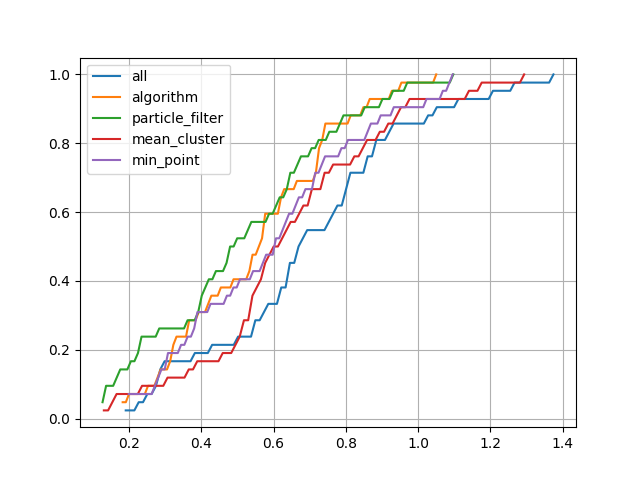
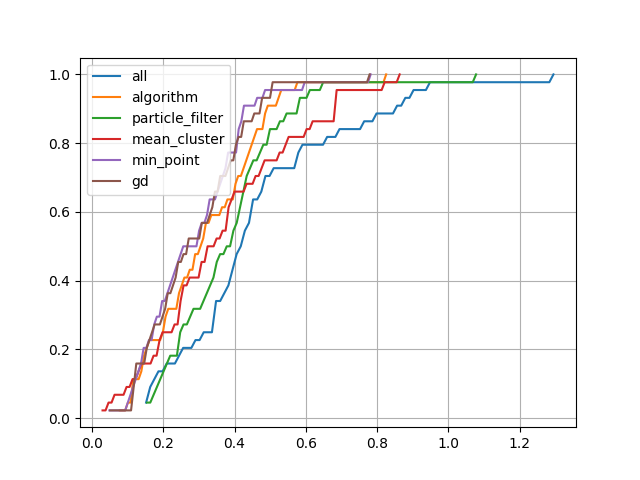
most rencently

diff --git a/report/comparison.py b/report/comparison.py
@@ -13,6 +13,7 @@ from scipy.spatial import distance
 from scipy.stats import cumfreq
 from sklearn.preprocessing import MinMaxScaler
 
+from scipy.optimize import minimize
 cwd = os.getcwd()
 sys.path.insert(0, os.path.join(cwd, "../classes"))
 sys.path.insert(0, os.path.join(cwd, "../commons"))
@@ -90,6 +91,25 @@ class ParticleFilter:
 
         return most_likely_particle
 
+def place_points_in_constraints(points, space_constraints):
+    for point in points:
+        if point['x'] < space_constraints['x_min']:
+            point['x'] = space_constraints['x_min']
+        elif point['x'] > space_constraints['x_max']:
+            point['x'] = space_constraints['x_max']
+
+        if point['y'] < space_constraints['y_min']:
+            point['y'] = space_constraints['y_min']
+        elif point['y'] > space_constraints['y_max']:
+            point['y'] = space_constraints['y_max']
+
+        if point['z'] < space_constraints['z_min']:
+            point['z'] = space_constraints['z_min']
+        elif point['z'] > space_constraints['z_max']:
+            point['z'] = space_constraints['z_max']
+    return points
+
+
 # Step 1: From Distance Measurements To Position
 def distance_to_position(averages_dict, initial_position, gradient_descent, subgroup_list):
     positions = []
@@ -102,6 +122,23 @@ def distance_to_position(averages_dict, initial_position, gradient_descent, subg
 
 # Step 2: From A Constellation Of Points To A Single One
 def constellation_to_single_point(points):
+
+
+    space_constraints = {'x_min': 0, 'x_max': 10, 'y_min': 0, 'y_max': 6, 'z_min': 0, 'z_max': 4}
+    points = place_points_in_constraints(points,space_constraints)
+# Define the cost function
+    def cost_func(x, points):
+        total_distance = 0
+        for point in points:
+            total_distance += np.sqrt((x[0] - point['x'])**2 + (x[1] - point['y'])**2 + (x[2] - point['z'])**2)
+        return total_distance
+
+
+    # Initial guess for the 'x' and 'y' coordinates of the center
+    x0 = np.array([0, 0, 0])
+
+    # Call the minimize function
+    point_gd = minimize(cost_func, x0, args=(points), method='Nelder-Mead')
     # DBSCAN Clustering and Mean Calculation
     # Convert list of dictionaries to 2D array
     points_2d = np.array([[point['x'], point['y'], point['z']] for point in points])
@@ -126,13 +163,12 @@ def constellation_to_single_point(points):
         return likelihood
 
     num_particles = 10000
-    space_constraints = {'x_min': 0, 'x_max': 10, 'y_min': 0, 'y_max': 6, 'z_min': 0, 'z_max': 4}
     motion_model = {'velocity_x': 0, 'velocity_y': 0, 'velocity_z': 0}
     particle_filter = ParticleFilter(num_particles, space_constraints, motion_model, measurement_model)
     particle_filter.update(points)
     particle_filter_point = particle_filter.get_most_likely_particle()
     particle_filter_point = np.array([particle_filter_point['x'],particle_filter_point['y'],particle_filter_point['z']])
-    return [particle_filter_point,mean_point, min_sum_point]
+    return [particle_filter_point,mean_point, min_sum_point,point_gd.x]
 # Step 3: Mean of Single Points
 def mean_of_single_points(points):
     print(points)
@@ -183,6 +219,7 @@ def main():
     diff_particle = []
     diff_all = []
     diff_algorithm = []
+    diff_gd  = []
     # Loop over all experiments
     for exp in range(1, 45):  # Assuming there are 10 experiments
         try:
@@ -228,11 +265,12 @@ def main():
             position_mean = np_array_to_dict(single_points[1])
             position_min = np_array_to_dict(single_points[2])
             position_pf = np_array_to_dict(single_points[0])
+            position_gd = np_array_to_dict(single_points[3]) 
             diff_min.append(Util.calculate_distance(gt,position_min))
             diff_mean.append(Util.calculate_distance(gt,position_mean))
             diff_algorithm.append(Util.calculate_distance(gt,final_position))
             diff_particle.append(Util.calculate_distance(gt,position_pf))
-
+            diff_gd.append(Util.calculate_distance(gt,position_gd))
 
            
             subgroup_list = Util.generate_subgroups(len(averages_dict.keys()), arr=list(averages_dict.keys()))
@@ -248,12 +286,14 @@ def main():
                diff_algorithm,
                diff_particle,
                diff_mean,
-               diff_min], 
+               diff_min,
+               diff_gd], 
               ["all",
                "algorithm",
                "particle_filter",
                "mean_cluster",
-               "min_point"])
+               "min_point",
+               "gd"])
 if __name__ == "__main__":
     main()
 

diff --git a/report/test.py b/report/test.py
@@ -1,0 +1,22 @@
+from scipy.optimize import minimize
+import numpy as np
+
+# Define the cost function
+def cost_func(x, points):
+    total_distance = 0
+    for point in points:
+        total_distance += np.sqrt((x[0] - point['x'])**2 + (x[1] - point['y'])**2 + (x[2] - point['z'])**2)
+    return total_distance
+
+# Define your points
+points = [{'x': 1, 'y': 2,'z':3}, {'x': 2, 'y': 3,'z':3}, {'x': 3, 'y': 4,'z':3}]
+
+# Initial guess for the 'x' and 'y' coordinates of the center
+x0 = np.array([0, 0, 0])
+
+# Call the minimize function
+res = minimize(cost_func, x0, args=(points), method='Nelder-Mead')
+
+# Print the result
+print(res.x)
+
